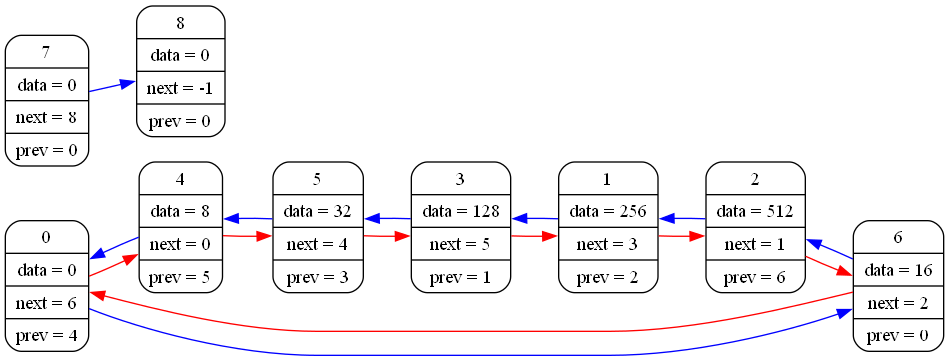
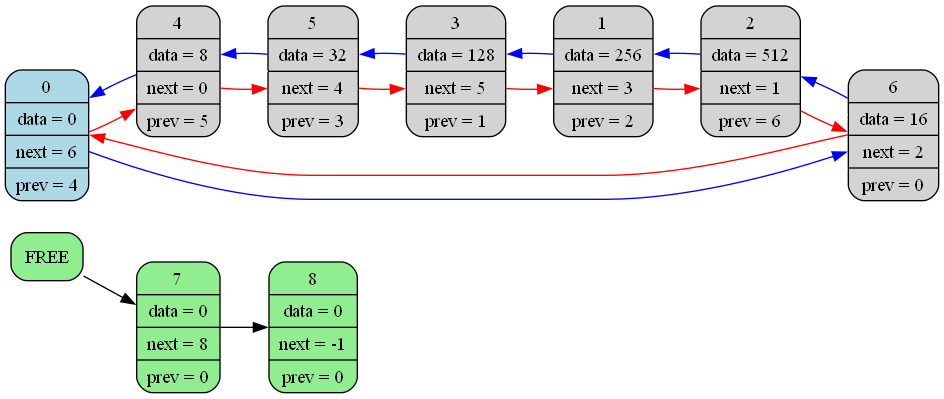
new_dump_pic

diff --git a/dump.cpp b/dump.cpp
@@ -21,51 +21,70 @@ char *generate_png (dbl_linked_list_t *list)
     sprintf (png_file,  "dump_picture%d.png", dumpNum);
     sprintf (html_file, "dump%d.html",        dumpNum);
 
-    FILE *input_file = fopen(txt_file, "w");
+    FILE *dot_file = fopen(txt_file, "w");
 
-    fprintf (input_file, "digraph G {\n\trankdir = LR\n");
-    printf("capasity = %d", list->capacity);
+    fprintf (dot_file, "digraph G {\n\trankdir = LR\n");
+    //printf("capasity = %d", list->capacity);
+
+    fprintf (dot_file, "\tfree_node [fillcolor = lightgreen, style=\"rounded, filled\" shape=Mrecord; label = \" FREE \"]; \n ");
+
     for (int i = 0; i <= list->capacity; i++)
     {
-        fprintf (input_file, "\tnode%d [shape=Mrecord; label = \"  %d | data = %d | next = %d | prev = %d  \"]; \n", i, i,
+        fprintf (dot_file, "\tnode%d [shape=Mrecord, style=\"rounded, filled\" label = \"  %d | data = %d | next = %d | prev = %d  \"]; \n", i, i,
                                                         list->array[i].data,
                                                         list->array[i].next,
                                                         list->array[i].prev );
     }
 
-    fprintf (input_file,"\n");
+    fprintf(dot_file, "\tnode0 [fillcolor=lightblue]\n", free);
+
+
+    fprintf (dot_file,"\n");
     int j = list->array[0].next;
-    fprintf (input_file, "\tnode%d ->node%d [ weight=0; color=blue; ]\n", 0, j);
+    fprintf (dot_file, "\tnode%d ->node%d [ weight=100, color=white ];\n", 0, j);
     while (j != 0)
     {
-        fprintf(input_file, "\tnode%d ->node%d [ weight=0; color=blue; ]\n", j, list->array[j].next);
+        fprintf(dot_file, "\tnode%d ->node%d [ weight=100, color=white ];\n", j, list->array[j].next);
         j = list->array[j].next;
     }
 
 
-    fprintf (input_file,"\n");
+    fprintf (dot_file,"\n");
+    j = list->array[0].next;
+    fprintf (dot_file, "\tnode%d ->node%d [ weight=0, color=blue ];\n", 0, j);
+    while (j != 0)
+    {
+        fprintf(dot_file, "\tnode%d ->node%d [ weight=0, color=blue ];\n", j, list->array[j].next);
+        j = list->array[j].next;
+    }
+
+
+    fprintf (dot_file,"\n");
     int k = list->array[0].prev;
-    fprintf (input_file, "\tnode%d ->node%d [ weight=0; color=red; ]\n", 0, k);
+    fprintf (dot_file, "\tnode%d ->node%d [ weight=0, color=red ];\n", 0, k);
     while (k != 0)
     {
-        fprintf(input_file, "\tnode%d ->node%d [ weight=0; color=\"red\"]\n", k, list->array[k].prev);
+        fprintf(dot_file, "\tnode%d ->node%d [ weight=0, color=red];\n", k, list->array[k].prev);
         k = list->array[k].prev;
     }
 
 
-    fprintf (input_file,"\n");
+    //fprintf (dot_file,"\n\tedge[color=green]\n");
     int free = list->firstFreeCell;
+    fprintf(dot_file, "\tnode%d[fillcolor=lightgreen]\n", free);
+    fprintf (dot_file, "\tfree_node -> node%d  [weight=0]\n", free);
     while( list->array[free].next != -1)
     {
-        fprintf(input_file, "\tnode%d ->node%d [ weight=0; color=blue; ]\n", free, list->array[free].next);
+        fprintf(dot_file, "\tnode%d[fillcolor=lightgreen]\n", list->array[free].next);
+        fprintf(dot_file, "\tnode%d ->node%d [weight=0]\n", free, list->array[free].next);
         free = list->array[free].next;
     }
 
 
 
-    fprintf(input_file, "}");
+    fprintf(dot_file, "}");
 
-    fclose(input_file);
+    fclose(dot_file);
     char cmd_command[128] = "";
     sprintf (cmd_command, "dot -Tpng %s -o %s", txt_file, png_file);
 
@@ -78,13 +97,13 @@ char *generate_png (dbl_linked_list_t *list)
 
 int generate_html(dbl_linked_list_t *list, char *picture_name, char *html_file)
 {
-    FILE *input_file = fopen(html_file, "w");
+    FILE *output_file = fopen(html_file, "w");
 
-    text_dump(list, input_file);
+    text_dump(list, output_file);
 
-    fprintf(input_file, "<img src=\"C:/MIPT/dbl_linked_list/%s\">", picture_name);
+    fprintf(output_file, "<img src=\"C:/MIPT/dbl_linked_list/%s\">", picture_name);
 
-    fclose(input_file);
+    fclose(output_file);
 
 }
 

diff --git a/dbl_linked_list_funcs.h b/dbl_linked_list_funcs.h
@@ -10,7 +10,7 @@ int     list_inicialiser    (dbl_linked_list_t *list);
 int64_t list_look           (int targetNum_Users, dbl_linked_list_t *list);
 void    dump                (dbl_linked_list_t list);
 int     list_get_true_num   (int targetNum_Users, dbl_linked_list_t *list);
-char *  generate_png (dbl_linked_list_t *list);
+char   *generate_png        (dbl_linked_list_t *list);
 
 
 

diff --git a/dbl_linked_list.cpp b/dbl_linked_list.cpp
@@ -15,7 +15,6 @@
 static int find_space(dbl_linked_list_t *list);
 static int set_next_free_markers (int startNum, int endNum, dbl_linked_list_t *list);
 
-
 int list_inicialiser (dbl_linked_list_t *list)
 {
     if (!list)
